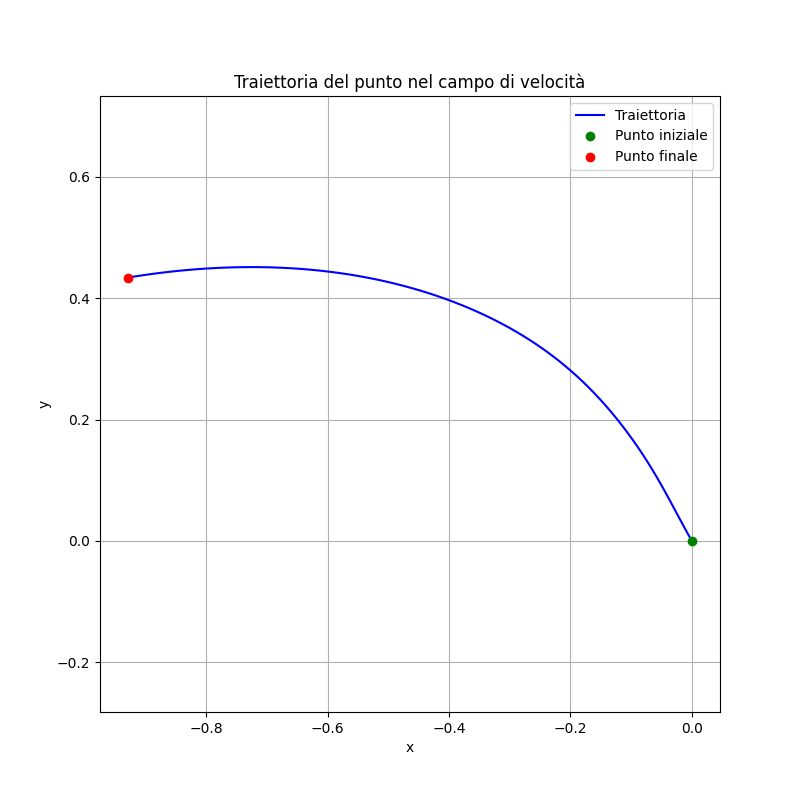
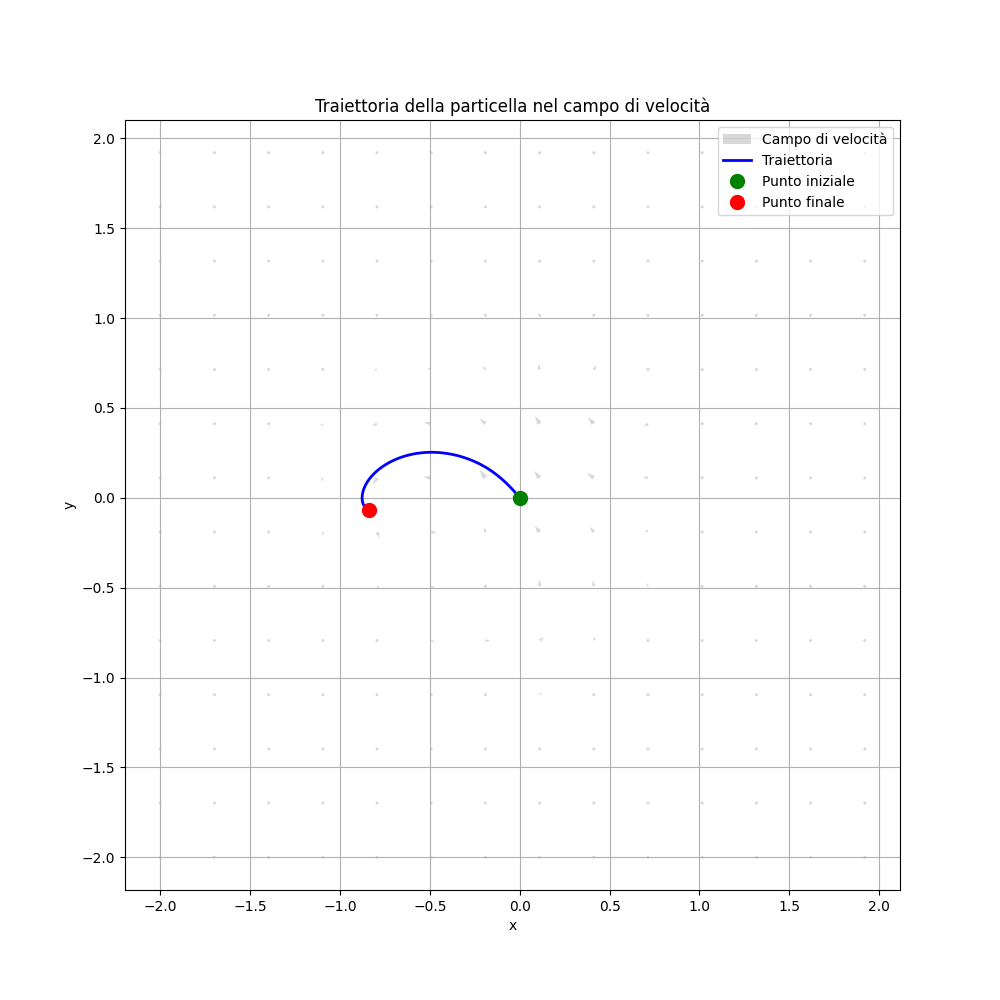
data generation fix

diff --git a/evaluate.py b/evaluate.py
@@ -32,16 +32,29 @@ def evaluate_model(model, data_path, metrics_path, model_path, plot_paths):
     model.load_state_dict(checkpoint['model_state_dict'])
     model.eval()  # Imposta il modello in modalità evaluation
 
-    # Visualizzazione della loss
-    plt.figure(figsize=(10, 5))
-    plt.plot(train_losses, label='Training Loss')
-    plt.xlabel('Epoch')
-    plt.ylabel('Loss')
-    plt.title('Curva di apprendimento')
-    plt.yscale('log')
-    plt.grid(True)
-    plt.legend()
+    # Visualizzazione delle loss e learning rates
+    fig, (ax1, ax2) = plt.subplots(2, 1, figsize=(10, 10))
+    
+    # Plot training losses
+    ax1.plot(train_losses, label='Training Loss')
+    ax1.set_xlabel('Epoch')
+    ax1.set_ylabel('Loss')
+    ax1.set_title('Curva di apprendimento')
+    ax1.set_yscale('log')
+    ax1.grid(True)
+    ax1.legend()
+
+    # Plot learning rates
+    ax2.plot(learning_rates, label='Learning Rate')
+    ax2.set_xlabel('Epoch')
+    ax2.set_ylabel('Learning Rate')
+    ax2.set_title('Learning Rate Schedule')
+    ax2.grid(True)
+    ax2.legend()
+
+    plt.tight_layout()
     plt.savefig(plot_paths['training_loss'])
+    plt.show()
     plt.close()
 
     # Uso della rete in Neural ODE
@@ -104,6 +117,7 @@ def evaluate_model(model, data_path, metrics_path, model_path, plot_paths):
 
     plt.tight_layout()
     plt.savefig(plot_paths['velocity_fields'])
+    plt.show()
     plt.close()
 
     # Calcola e mostra l'errore medio
@@ -116,31 +130,53 @@ def evaluate_model(model, data_path, metrics_path, model_path, plot_paths):
     mse = np.mean((predicted_u_x - u_x)**2 + (predicted_u_y - u_y)**2)
     print(f"Errore quadratico medio: {mse:.6f}")
 
-    # Visualizzazione della traiettoria
-    plt.figure(figsize=(8, 8))
-    plt.plot(trajectory_np[:, 0, 0], trajectory_np[:, 0, 1], 'b-', label='Traiettoria')
-    plt.plot(trajectory_np[0, 0, 0], trajectory_np[0, 0, 1], 'go', label='Punto iniziale')
-    plt.plot(trajectory_np[-1, 0, 0], trajectory_np[-1, 0, 1], 'ro', label='Punto finale')
-    plt.title('Traiettoria del punto nel campo di velocità')
+    # Visualizzazione della traiettoria con campo vettoriale
+    plt.figure(figsize=(10, 10))
+    
+    # Plot del campo vettoriale di sfondo
+    skip = 15  # Densità più bassa per il campo vettoriale di sfondo
+    plt.quiver(X[::skip, ::skip], Y[::skip, ::skip], 
+               u_x[::skip, ::skip], u_y[::skip, ::skip], 
+               scale=50, color='gray', alpha=0.3, label='Campo di velocità')
+    
+    # Plot della traiettoria
+    plt.plot(trajectory_np[:, 0, 0], trajectory_np[:, 0, 1], 'b-', 
+             linewidth=2, label='Traiettoria')
+    plt.plot(trajectory_np[0, 0, 0], trajectory_np[0, 0, 1], 'go', 
+             markersize=10, label='Punto iniziale')
+    plt.plot(trajectory_np[-1, 0, 0], trajectory_np[-1, 0, 1], 'ro', 
+             markersize=10, label='Punto finale')
+    
+    plt.title('Traiettoria della particella nel campo di velocità')
     plt.xlabel('x')
     plt.ylabel('y')
     plt.grid(True)
     plt.legend()
     plt.axis('equal')
     plt.savefig(plot_paths['trajectory'])
+    plt.show()
     plt.close()
 
     return mse
 
 if __name__ == "__main__":
-    # Inizializza il modello
-    model = AugmentedLambOseenODE()
+    # Scegli il modello da valutare
+    model_type = "standard"  # oppure "augmented"
+    
+    if model_type == "standard":
+        model = LambOseenODE()
+        metrics_path = PATHS['metrics']
+        model_path = PATHS['model']
+    else:  # augmented
+        model = AugmentedLambOseenODE()
+        metrics_path = PATHS['metrics'].replace('.npz', '_anode.npz')
+        model_path = PATHS['model'].replace('.pth', '_anode.pth')
     
     # Esegui la valutazione
     evaluate_model(
         model=model,
         data_path=PATHS['dataset'],
-        metrics_path=PATHS['metrics'].replace('.npz', '_anode.npz'),
-        model_path=PATHS['model'].replace('.pth', '_anode.pth'),
+        metrics_path=metrics_path,
+        model_path=model_path,
         plot_paths=PATHS['plots']
     )
